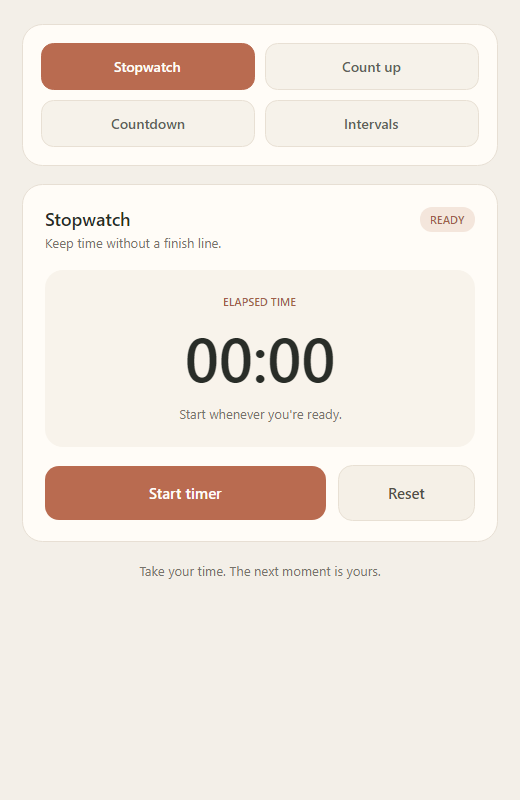
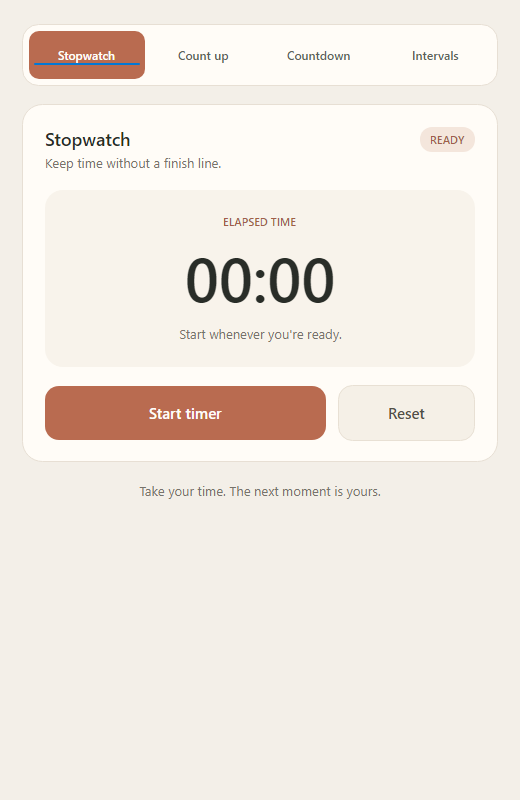
Show timer modes as tabs

diff --git a/Timer/ViewModels/MainViewModel.cs b/Timer/ViewModels/MainViewModel.cs
@@ -21,9 +21,18 @@ public partial class MainViewModel : ViewModelBase
         SelectMode(TimerMode.Stopwatch);
     }
 
-    public bool IsStopwatchSelected => _selectedMode == TimerMode.Stopwatch;
-    public bool IsCountUpSelected => _selectedMode == TimerMode.CountUp;
-    public bool IsCountdownSelected => _selectedMode == TimerMode.Countdown;
+    public int SelectedModeIndex
+    {
+        get => (int)_selectedMode;
+        set
+        {
+            if (value is < 0 or > 3 || value == (int)_selectedMode)
+                return;
+
+            SelectMode((TimerMode)value);
+        }
+    }
+
     public bool IsIntervalsSelected => _selectedMode == TimerMode.Intervals;
     public bool IsDurationMode => _selectedMode is TimerMode.CountUp or TimerMode.Countdown;
     public bool CanEditSettings => _status is TimerStatus.Ready or TimerStatus.Completed;
@@ -121,9 +130,7 @@ public partial class MainViewModel : ViewModelBase
             _ => string.Empty
         };
 
-        OnPropertyChanged(nameof(IsStopwatchSelected));
-        OnPropertyChanged(nameof(IsCountUpSelected));
-        OnPropertyChanged(nameof(IsCountdownSelected));
+        OnPropertyChanged(nameof(SelectedModeIndex));
         OnPropertyChanged(nameof(IsIntervalsSelected));
         OnPropertyChanged(nameof(IsDurationMode));
         OnPropertyChanged(nameof(CanEditSettings));

diff --git a/Timer.App.Tests/MainViewModelTests.cs b/Timer.App.Tests/MainViewModelTests.cs
@@ -57,11 +57,16 @@ public sealed class MainViewModelTests
         viewModel.StartOrPauseCommand.Execute(null);
         Assert.AreEqual("RUNNING", viewModel.StatusLabel);
 
-        viewModel.SelectIntervalsCommand.Execute(null);
+        viewModel.SelectedModeIndex = 3;
         Assert.IsTrue(viewModel.IsIntervalsSelected);
+        Assert.AreEqual(3, viewModel.SelectedModeIndex);
         Assert.AreEqual("READY", viewModel.StatusLabel);
         Assert.AreEqual("00:45", viewModel.DisplayTime);
         Assert.AreEqual("Round 1 of 4  ·  work", viewModel.DetailLabel);
         Assert.IsTrue(viewModel.CanEditSettings);
+
+        viewModel.SelectCountdownCommand.Execute(null);
+        Assert.AreEqual(2, viewModel.SelectedModeIndex);
+        Assert.IsTrue(viewModel.IsDurationMode);
     }
 }
